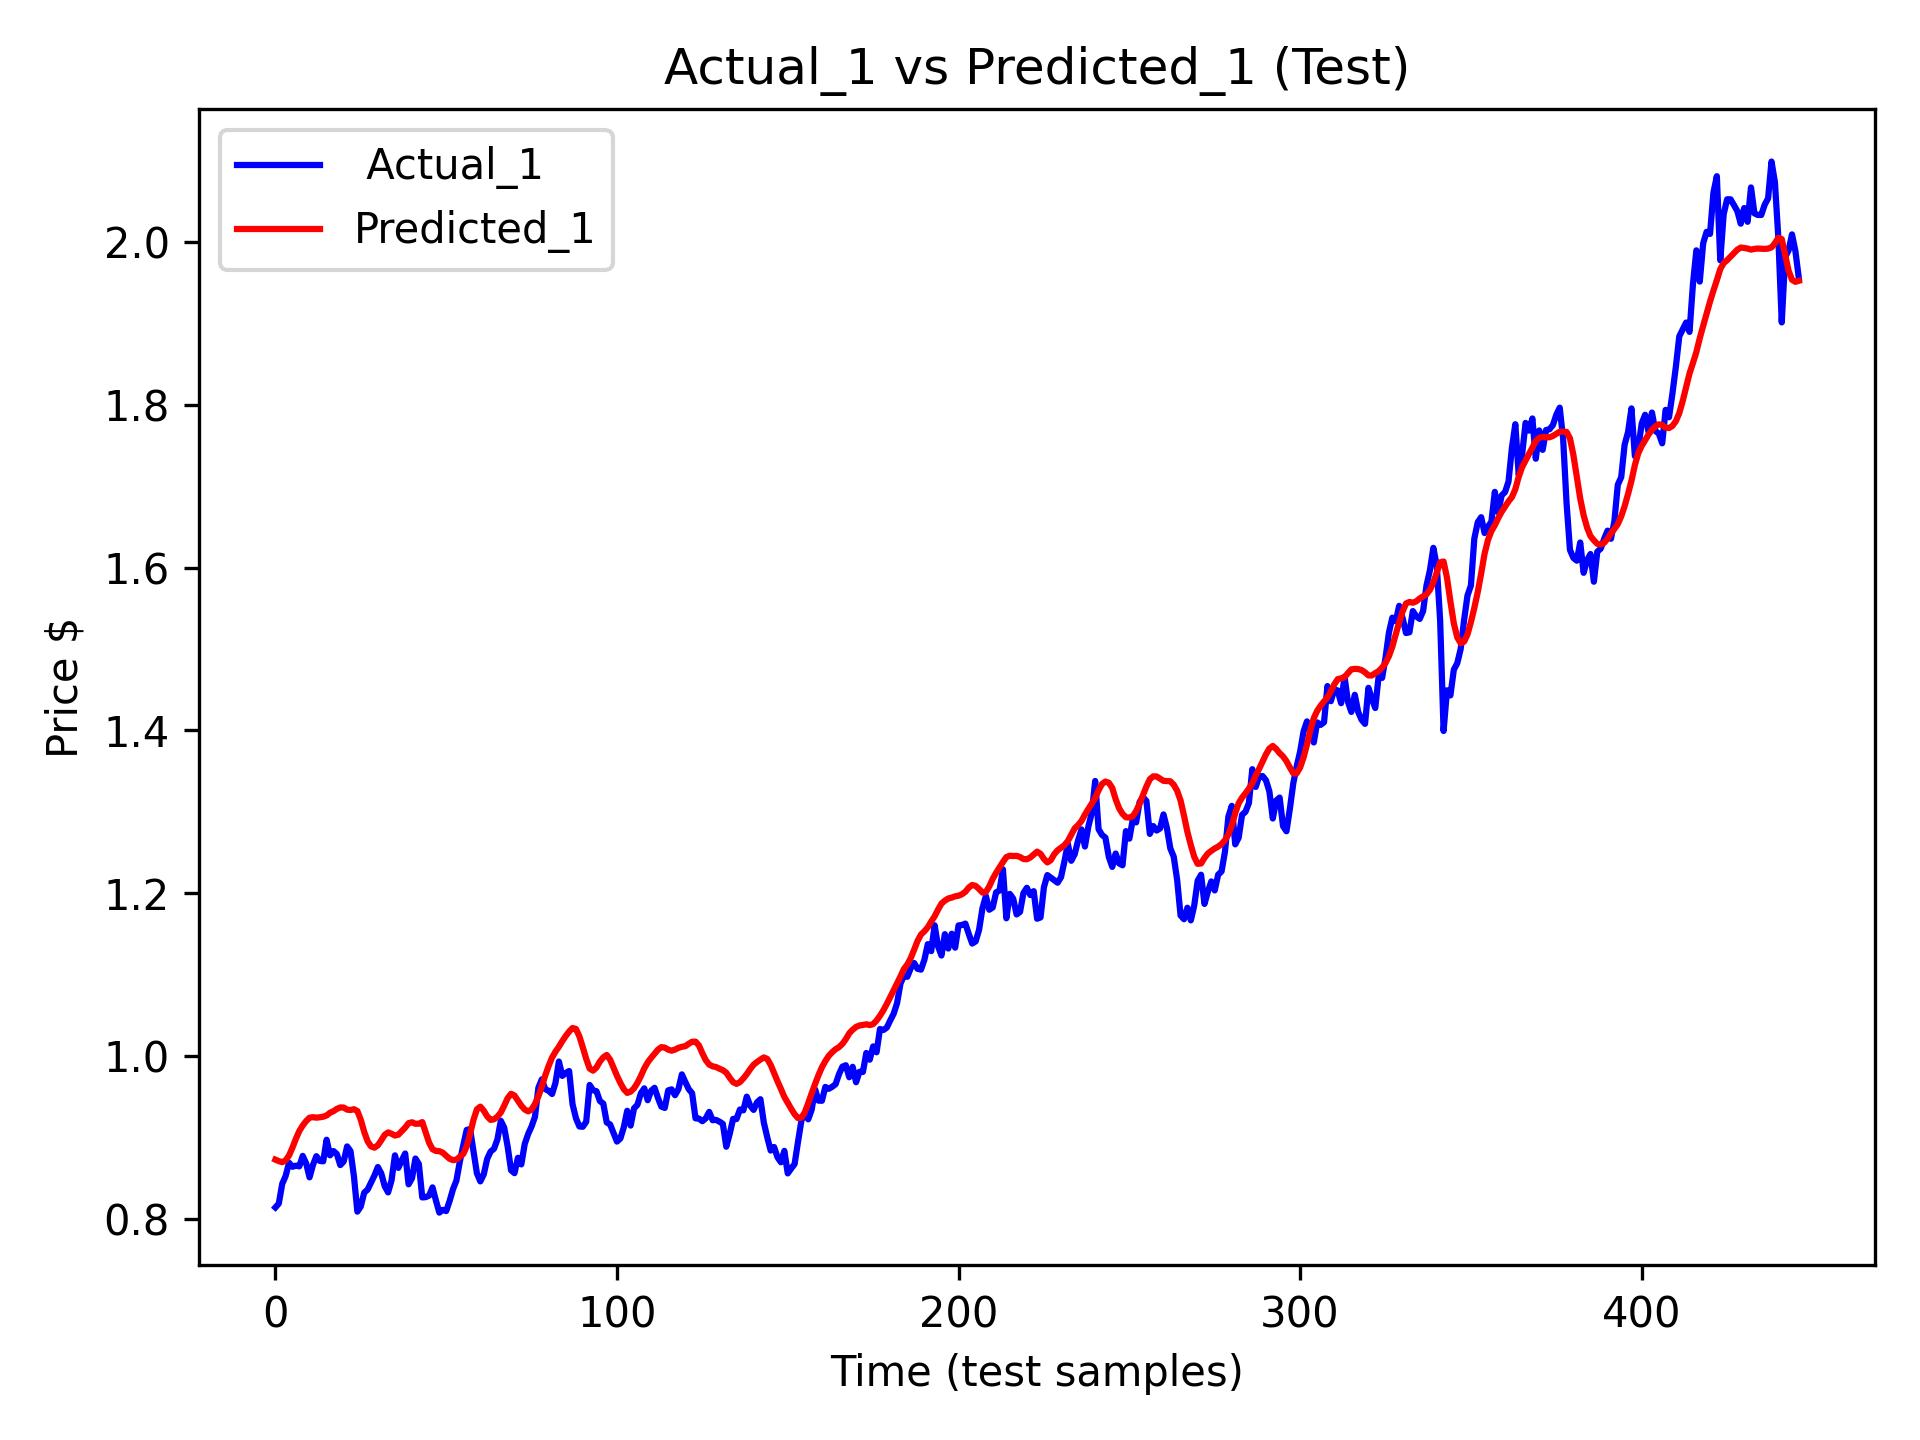
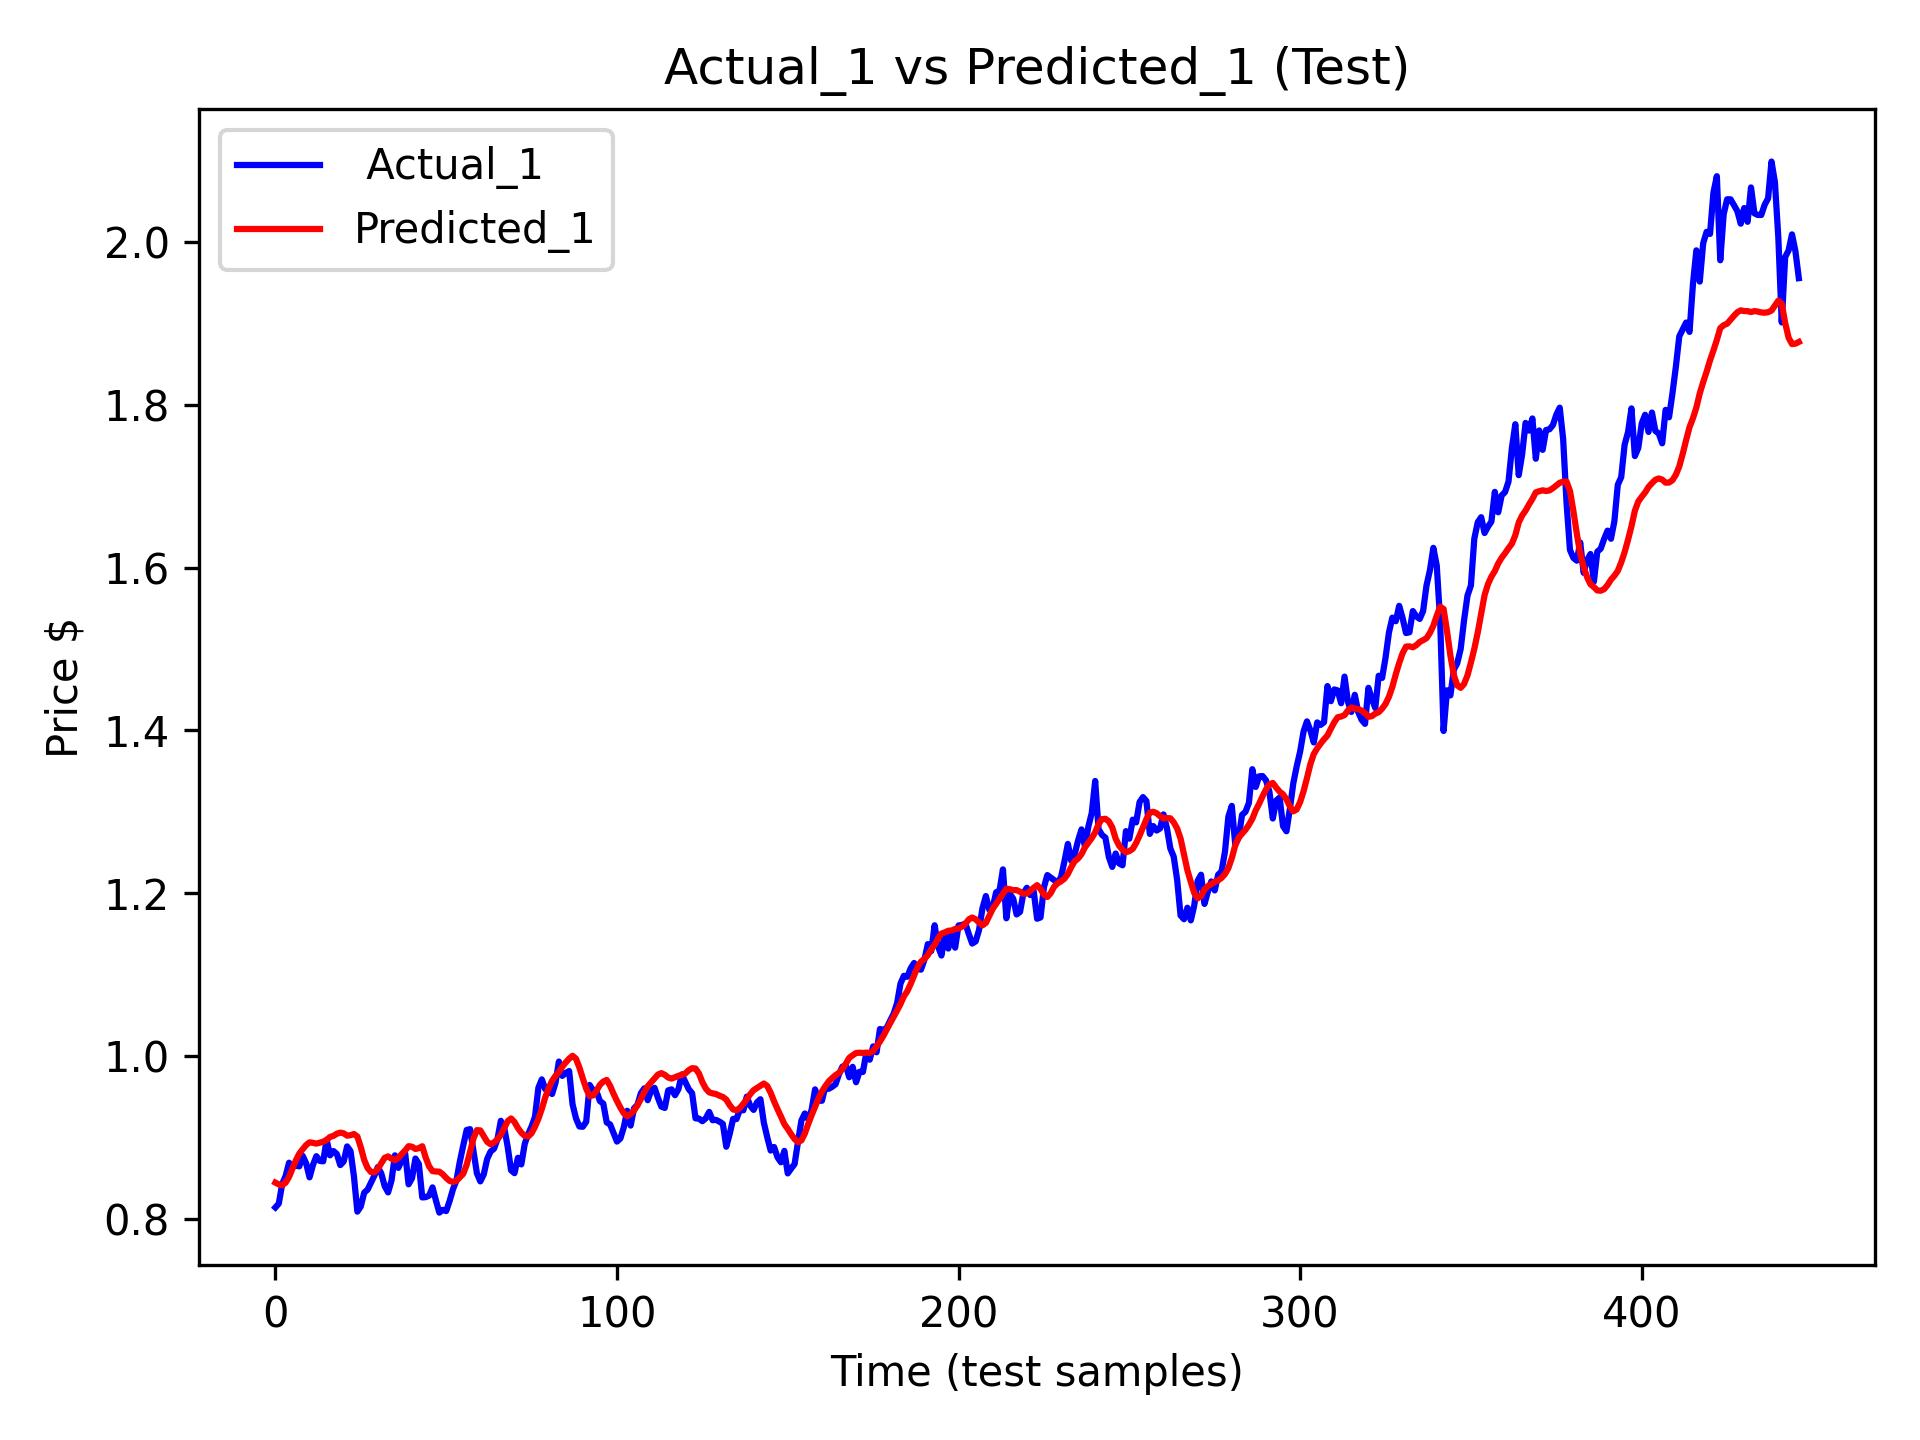
add all files

diff --git a/Taskc7_3.py b/Taskc7_3.py
@@ -14,8 +14,8 @@ DF = pd.read_csv(PATH, parse_dates=["date"]).sort_values("date").reset_index(dro
 #    Price block: simple returns, moving averages, momentum, short-window volatility, and RSI
 price_features = ["ret_1d", "ma_5", "ma_10", "mom_5", "vol_5", "RSI_14"]
 #    Sentiment blocks (shifted so they refer to yesterday’s info)
-vader_feats   = ["vader_mean_shifted"]
-finbert_feats = ["finbert_mean_shifted"]
+vader_feats   = ["vader_mean_shifted", "vader_change_shifted"]
+finbert_feats = ["finbert_mean_shifted", "finbert_change_shifted"]
 
 #    Convenient presetts so We can compare configurations one at a time
 feat_sets = {
